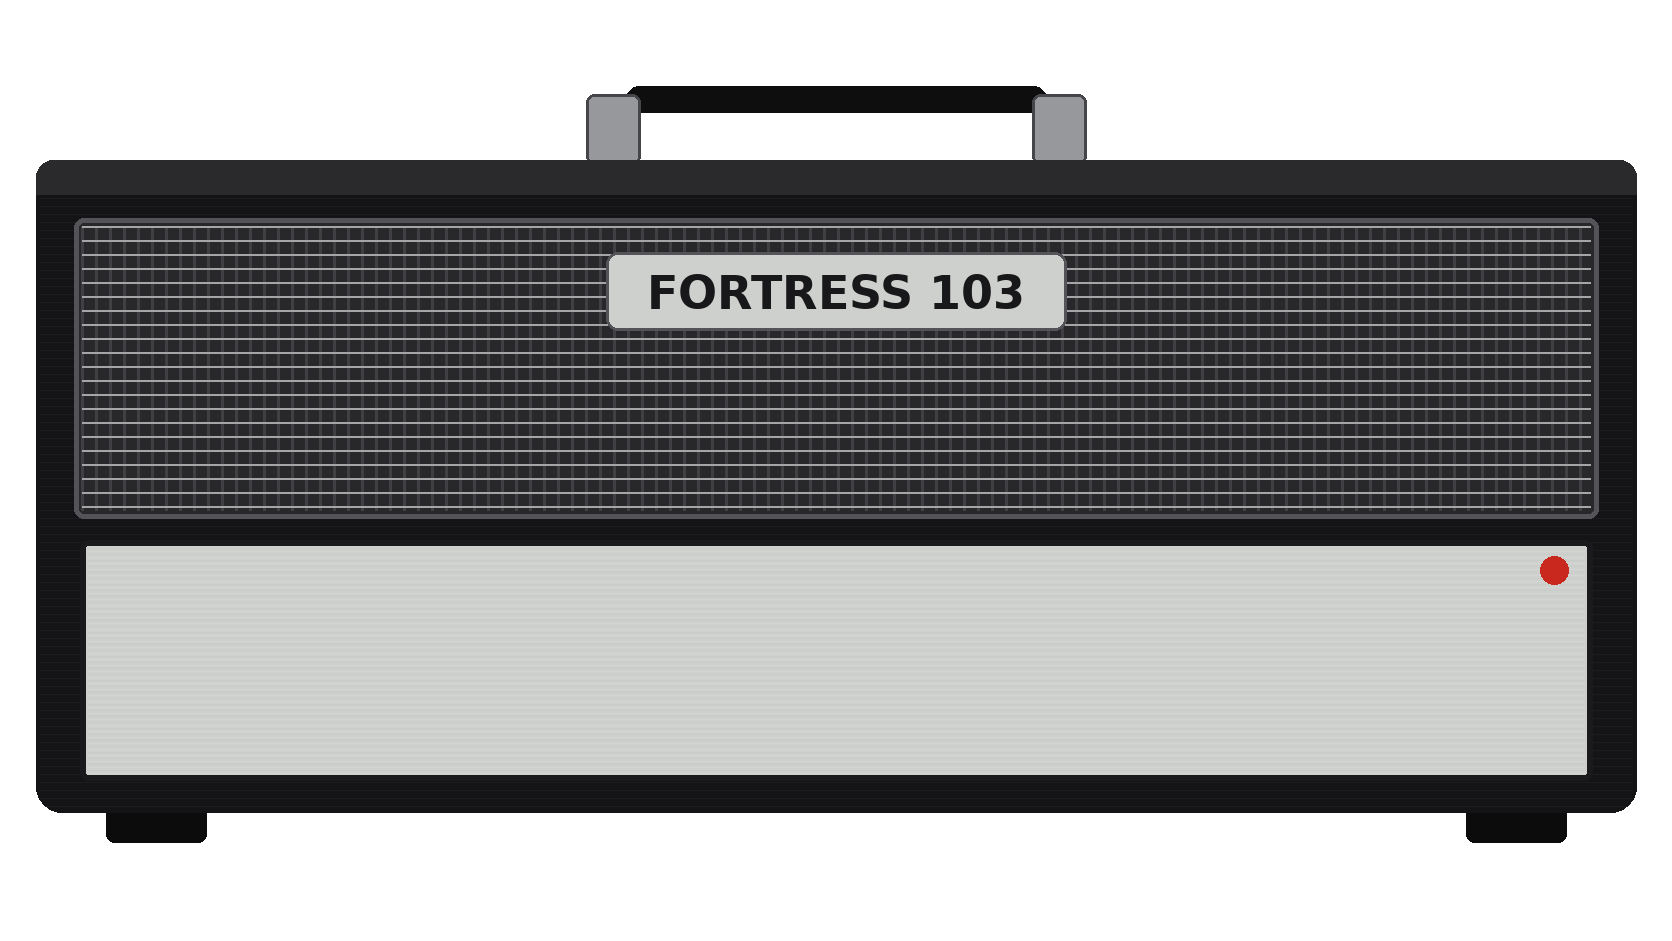
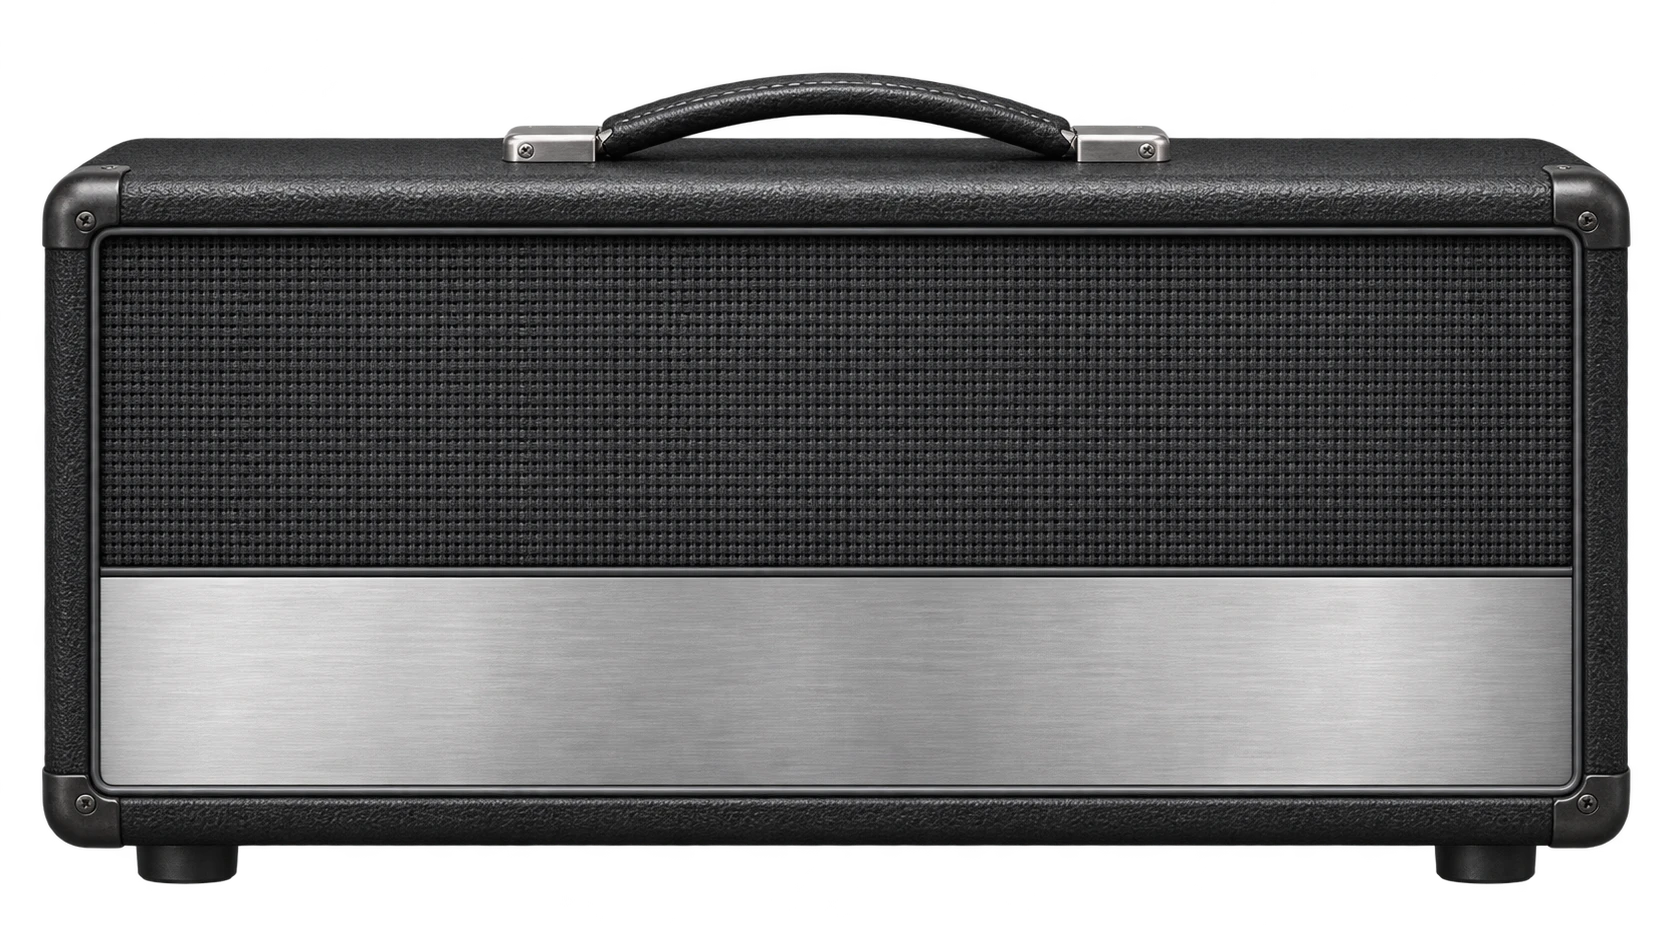
Reference heads 26-30: owner-supplied photographic shells
Replace the procedural Crystal 120, Bluestack 100, Eightyfire, Fortress 103
and Northlight drawings with the owner-supplied 1672x941 RGBA artwork
(losslessly converted from WebP). Re-measure alpha bounds, support
baselines and blank plates on the raw PNGs; control frames keep every knob
row at the same relative position on its plate. Regenerate the compact
fascia rasters from the new shells, update provenance and docs, and retire
the procedural generator so it cannot overwrite the art.

Claude-Session: https://claude.ai/code/session_01YHbPd9oRfent6QCH5bGzPD

diff --git a/Source/AmpHeadShellMetadata.h b/Source/AmpHeadShellMetadata.h
@@ -58,12 +58,12 @@ inline constexpr std::array definitions{
         {{{722,475,45,21},{790,475,51,21},{862,475,51,21},{934,475,51,21},{1006,475,49,21}}}}, // 24: Nastroend
     Definition{"headshell25_png",1672,941,{13,73,1646,791},{13,205,1646,634},864,true,
         {{{682,474,44,20},{745,474,46,20},{810,474,46,20},{875,474,46,20},{940,474,44,20}}}}, // 25: Niflheimr
-    // 26-30: procedural shells from Tools/generate_reference_head_shells.py.
-    Definition{"headshell26_png",1672,941,{36,96,1601,747},{54,214,1564,580},842,true}, // 26: Crystal 120
-    Definition{"headshell27_png",1672,941,{36,76,1601,767},{54,194,1564,600},842,true}, // 27: Bluestack 100
-    Definition{"headshell28_png",1672,941,{36,76,1601,767},{54,194,1564,600},842,true}, // 28: Eightyfire
-    Definition{"headshell29_png",1672,941,{36,86,1601,757},{54,204,1564,590},842,true}, // 29: Fortress 103
-    Definition{"headshell30_png",1672,941,{236,420,1201,393},{254,452,1164,312},812,false}, // 30: Northlight
+    // 26-30: owner-supplied photographic shells (2026-11-18); plates reviewed on the raw PNGs.
+    Definition{"headshell26_png",1672,941,{43,85,1586,796},{75,257,1523,542},881,true}, // 26: Crystal 120
+    Definition{"headshell27_png",1672,941,{49,68,1574,808},{93,286,1485,491},876,true}, // 27: Bluestack 100
+    Definition{"headshell28_png",1672,941,{48,74,1577,810},{91,260,1492,533},884,true}, // 28: Eightyfire
+    Definition{"headshell29_png",1672,941,{42,72,1589,812},{79,318,1514,467},884,true}, // 29: Fortress 103
+    Definition{"headshell30_png",1672,941,{117,334,1438,393},{170,381,1331,304},727,false}, // 30: Northlight
 };
 static_assert(definitions.size()==static_cast<size_t>(ampModelCount),
               "Every amplifier needs an explicitly mapped complete shell");

diff --git a/Tests/CabHeadAppearanceTests.h b/Tests/CabHeadAppearanceTests.h
@@ -104,12 +104,12 @@ inline constexpr std::array<spectralforge::headShell::PixelRect,31> reviewedHead
     {97,604,1347,161}, // 23
     {108,522,1555,225}, // 24
     {77,509,1514,261}, // 25
-    // 26-30: plates written by Tools/generate_reference_head_shells.py.
-    {80,568,1512,212}, // 26
-    {80,548,1512,232}, // 27
-    {80,548,1512,232}, // 28
-    {80,540,1512,240}, // 29
-    {280,551,1112,199}, // 30
+    // 26-30: plates measured on the owner-supplied shells (2026-11-18).
+    {100,588,1472,198}, // 26
+    {118,576,1436,190}, // 27
+    {116,574,1442,206}, // 28
+    {104,584,1464,190}, // 29
+    {200,478,1272,194}, // 30
 }};
 inline juce::Rectangle<float> reviewedHeadPlate(int model) {
     return spectralforge::cabHead::pixels(reviewedHeadPlates[static_cast<size_t>(model)]);

diff --git a/docs/REFERENCE_AMPS_1_6.md b/docs/REFERENCE_AMPS_1_6.md
@@ -82,13 +82,15 @@ argument; the released groups keep their hints.
 
 ## Head artwork
 
-`Tools/generate_reference_head_shells.py` draws each complete head shell
-procedurally:
-- `head-shell-26.png` … `head-shell-30.png`;
-- the compact fascia rasters (`acrystal.png` and the others);
-- the provenance entries, the metadata rows and the reviewed plate fixtures.
+The complete head shells `head-shell-26.png` … `head-shell-30.png` are photographic artwork supplied by the product owner on 2026-11-18. They replace the earlier procedural drawings. Each PNG is the supplied 1672×941 RGBA image converted losslessly from WebP, with no cropping, resizing or repainting.
 
-The fascias are original Chimera designs carrying the working name, with no manufacturer logo or trade dress. They are simpler than the photographic shells 0–25. Northlight is a compact desktop unit with no handle. Live knobs and labels remain JUCE controls on the blank plate.
+- Crystal 120: silver-grey woven grille, silver panel, black tolex.
+- Bluestack 100: warm brown basketweave, gold panel, cream piping.
+- Eightyfire: dark, tight grille, gold panel, black corner protectors.
+- Fortress 103: dark grey grille, bright silver panel, black trim.
+- Northlight: compact navy metal desktop unit with steel-blue trim and no handle.
+
+The compact fascia rasters (`acrystal.png` and the others) are the alpha-bounded crop of each shell at 960 px wide. `Source/AmpHeadShellMetadata.h` holds the alpha bounds, control frame and support baseline. `Tests/CabHeadAppearanceTests.h` holds the blank plates measured on the raw PNGs. The control frames keep each knob row at the same relative position on its plate as before. The artwork carries no manufacturer logo or trade dress. Live knobs and labels remain JUCE controls on the blank plate.
 
 ## Measurements (`ChimeraReferenceAmpTests`, 48 kHz)
 

diff --git a/Assets/Artwork/HeadShells/README.md b/Assets/Artwork/HeadShells/README.md
@@ -38,8 +38,7 @@ commit and CI run, including platform and capture context.
 
 ## Reference heads 26-30 (1.6)
 
-`head-shell-26.png` through `head-shell-30.png` are **procedural** drawings by
-`Tools/generate_reference_head_shells.py`, not AI-generated or photographic art.
-- They show original Chimera fascias carrying the working names, with no manufacturer logo or trade dress.
-- The script also writes their provenance entries and prints the metadata rows and reviewed plate fixtures.
-- Replacing them with photographic art keeps the same rules: one complete RGBA shell per model and a blank control plate.
+`head-shell-26.png` through `head-shell-30.png` are **photographic artwork supplied by the product owner** on 2026-11-18. They replace the earlier procedural drawings.
+- Each is the supplied 1672×941 RGBA WebP, decoded and written unchanged as PNG.
+- They show original Chimera enclosures with a blank control plate and no manufacturer logo or trade dress. Northlight is a handle-less desktop unit.
+- `provenance.json` records the hashes and alpha bounds. `Source/AmpHeadShellMetadata.h` holds the control frames and baselines, and `Tests/CabHeadAppearanceTests.h` holds the reviewed plates.
